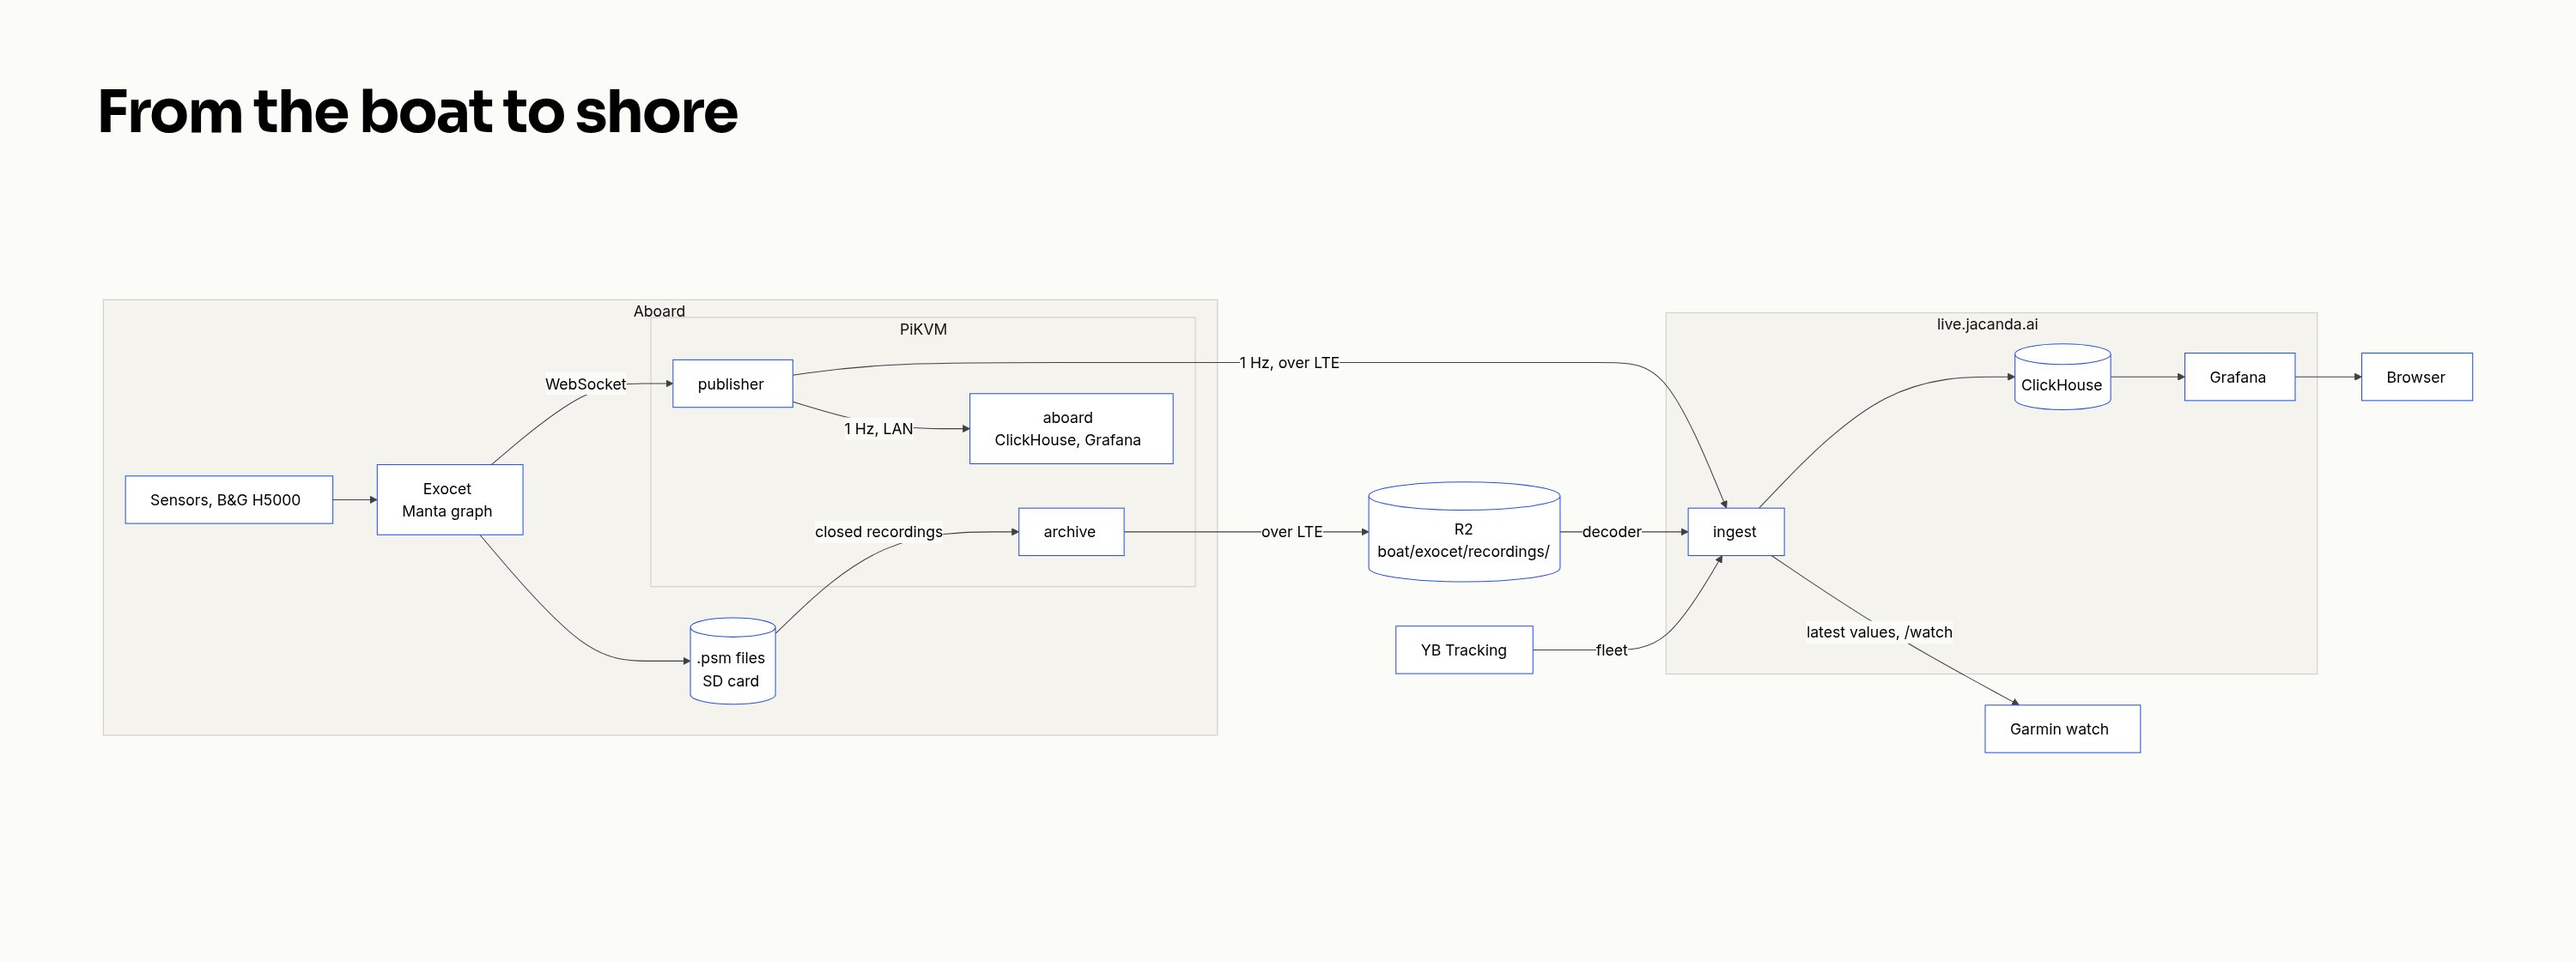
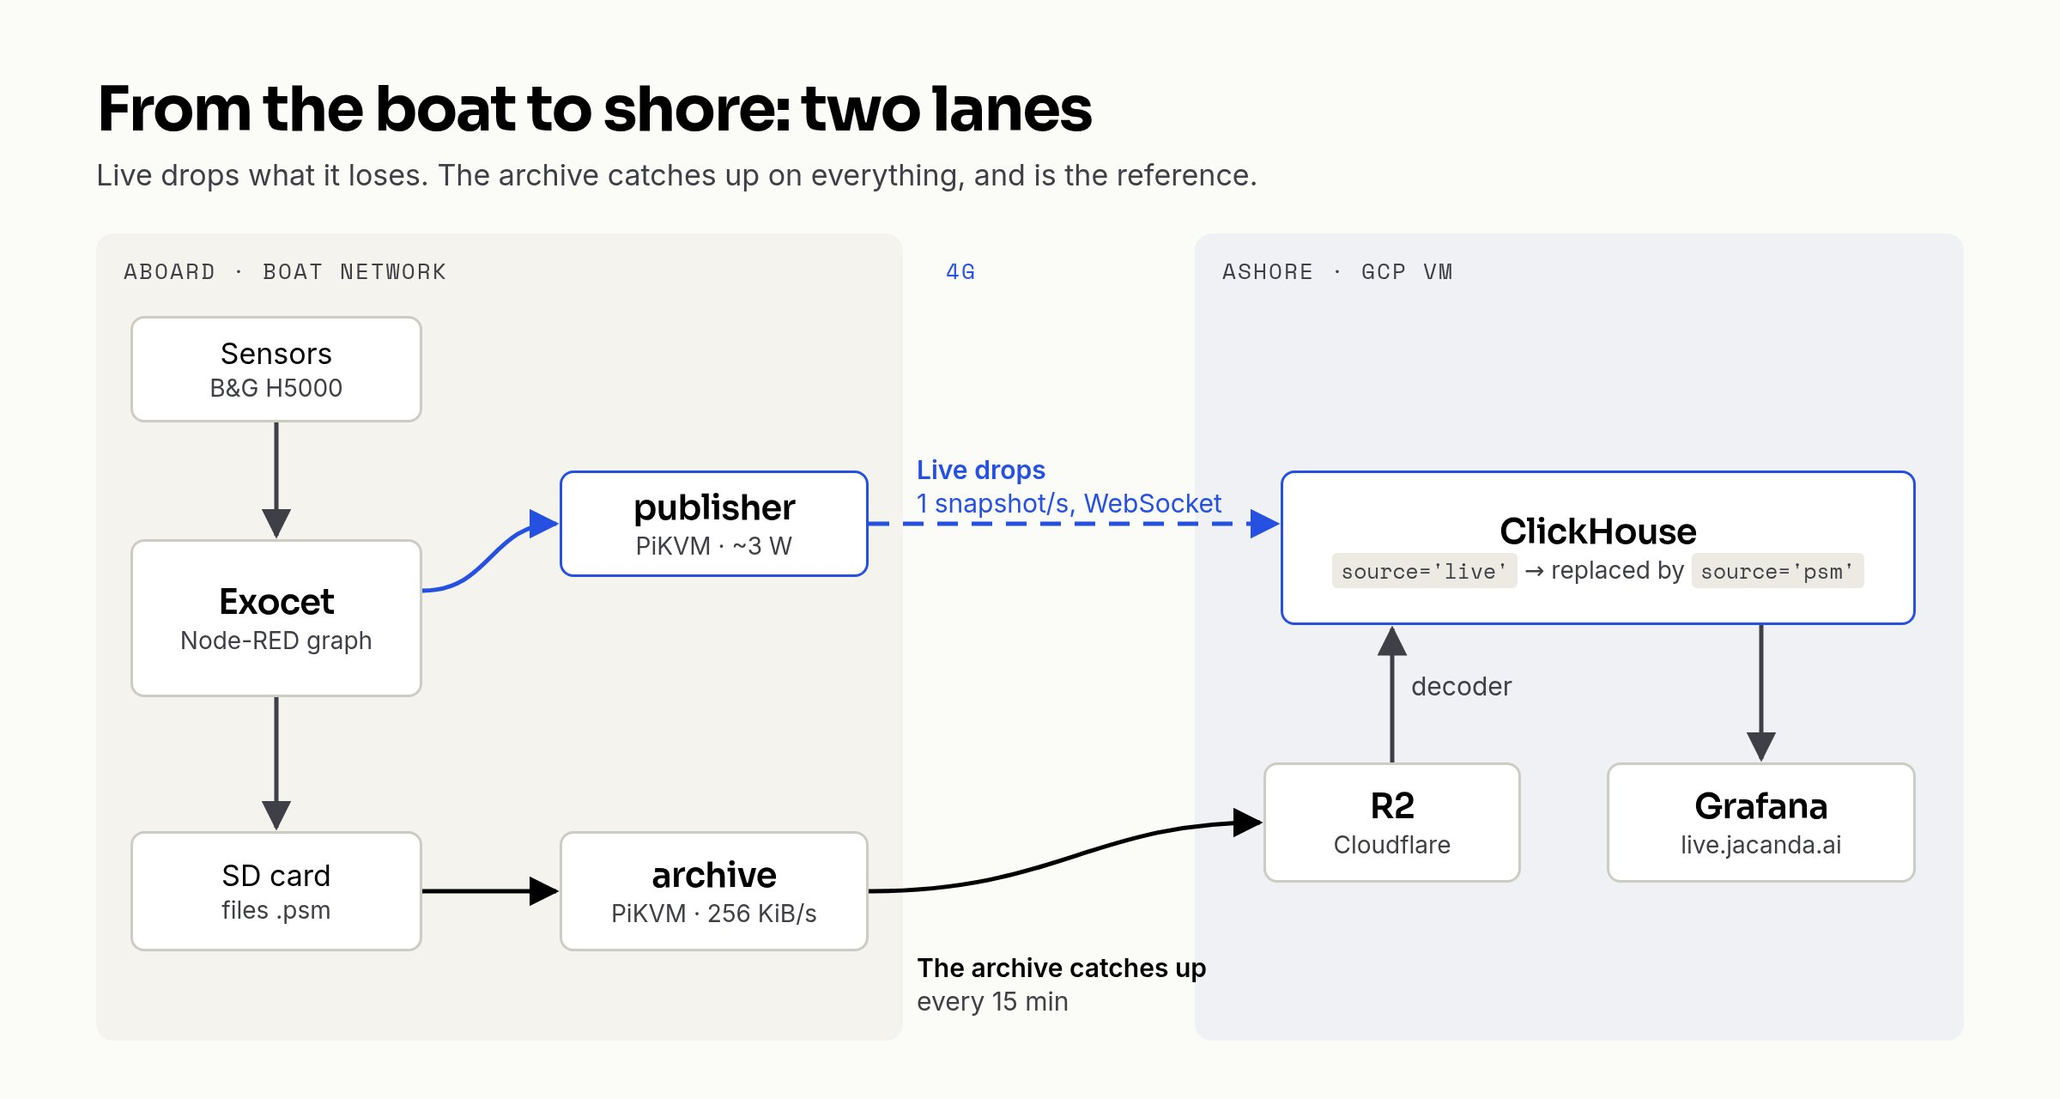
blog: real Grafana captures, watch screens and redrawn schemas for the sailboat draft

diff --git a/content/blog/un-agent-de-code-sur-un-voilier-de-course/fr.md b/content/blog/un-agent-de-code-sur-un-voilier-de-course/fr.md
@@ -26,13 +26,15 @@ GPS $RMC (onglet out_TimeSync    ──┘      (choisit la meilleure    (PC nav
 
 Le détail qui m'a fait sourire : la chaîne GPS → gpsd existait déjà dans le graphe de l'Exocet, entièrement câblée, dans un onglet désactivé. Il restait à l'activer et à configurer NTP. On est passés de +228,8 s à +4 ms.
 
-![Réglages d'heure de l'Exocet : port GPSD 8112 et serveur NTP](timesync.jpg "L'Exocet, onglet Synchronisation : gpsd sur le port 8112, et un serveur NTP.")
+![Réglages d'heure de l'Exocet : port GPSD 8112 et serveur NTP](timesync.png "L'Exocet, onglet Synchronisation : gpsd sur le port 8112, et le serveur NTP.")
 
 ## 2. Quand le lien tombe
 
 Sur un bateau, la coupure n'est pas un incident, c'est l'état normal. Au large, la 4G disparaît. Le réflexe serveur serait une file : on bufferise pendant la coupure, on rejoue au retour. Sauf qu'au retour, on rejouerait une heure de « direct » périmé.
 
 Alors j'ai séparé deux voies, et je ne les mélange jamais.
+
+![Schéma : à bord l'Exocet, le publisher et l'archive sur le PiKVM ; à terre R2, ClickHouse et Grafana](arch-fr.jpg "Deux voies : le direct en pointillés, l'archive en trait plein.")
 
 **Le direct jette.** Un publisher sur le PiKVM lit le flux de l'Exocet (via l'API que son app web utilise, pas documentée), en fait un snapshot complet par seconde et le pousse à terre en WebSocket. Si le lien tombe, la seconde est perdue, et c'est voulu :
 
@@ -59,11 +61,13 @@ Deux détails : on retente au plus toutes les 5 s (pas une poignée de main TLS 
 
 **Un seul store, jetable.** À terre, une VM GCP fait tourner [ClickHouse](https://clickhouse.com/) et Grafana. Les lignes du direct arrivent avec `source='live'` et sont provisoires : quand l'enregistrement complet est rechargé depuis R2 (`source='psm'`, pleine fréquence), il les remplace. Le store se reconstruit entièrement depuis R2, donc on peut le jeter.
 
-![Architecture : à bord l'Exocet et le PiKVM, à terre ClickHouse et Grafana, R2 entre les deux](arch-fr.jpg "Du bateau à la terre : le direct en 1 Hz, l'archive par R2. Schéma tiré du README du repo.")
+![Dashboard Grafana Live : vent, vitesse, cibles de polaire et courbes sur une heure](live.jpg "Le dashboard Live sur une heure de course, le 9 octobre, pendant le Tour de Corse.")
 
 Le bug le plus instructif est venu de là. Après un redémarrage de l'Exocet, le publisher n'a retrouvé que 8 canaux sur 28, et il a streamé comme ça pendant deux heures. Le tableau de bord avait l'air parfait : l'indicateur « Data age » au vert, à 0 s. Et le vent affichait 0,0, parce que l'agrégat `argMax` de ClickHouse sur une fenêtre vide renvoie 0 plutôt que rien. Un flux dégradé ressemble exactement à un flux sain. C'est toujours ouvert.
 
 L'inverse est arrivé aussi : le soir de la mise en service, la girouette s'est tue pendant un quart d'heure. Ma première réaction : « did we break something in the pixel? ». Non, c'était un vrai trou côté capteur, et c'est la voie directe qui venait de le montrer.
+
+![Dashboard Grafana Replay : trace autour de la Corse et vitesse comparée à la polaire](replay.jpg "Replay du Tour de Corse : la trace colorée par % de polaire, la vitesse contre la cible.")
 
 ## 3. L'énergie et le forfait
 
@@ -106,7 +110,7 @@ Le comportement de l'Exocet, c'est son graphe (21 flows, 743 nœuds), et il n'ex
 - le hash `rev` que renvoie Node-RED est sorti de git. C'est un état d'exécution, comme un state Terraform, pas de la configuration. En plus, l'Exocet renvoie `rev: null` pendant des heures après un déploiement : on compare le contenu, jamais le hash ;
 - l'export de configuration complet du fabricant est chiffré, et rechiffré à chaque export : impossible à comparer. Il part en sauvegarde sur R2, pas dans git.
 
-![Le bateau sous git : snapshot de l'Exocet en pull request, apply à quai, backup vers R2](git-fr.jpg "Snapshot toutes les 15 minutes en pull request, apply à la main et à quai.")
+![Schéma : snapshot de l'Exocet en pull request, merge sur main, apply à quai, backup vers R2](git-fr.jpg "Le graphe part de la boîte vers git tout seul ; il ne revient vers la boîte qu'à la main, à quai.")
 
 Pour le déploiement, l'agent proposait un bouton manuel. J'ai voulu que ça parte au merge. Le problème : un déploiement redémarre l'application de l'Exocet, donc le pilote. Inoffensif le long d'un ponton, dangereux en route, et la CI ne peut pas demander à un humain où est le bateau. Alors elle demande au bateau :
 
@@ -142,5 +146,7 @@ Ce qui change par rapport au dev web :
 - La bascule sur le GPS n'a jamais été observée au large. La cible de 10 ms n'est vérifiée que sur l'Exocet, seul appareil qui parle NTP : les autres sont seulement bornés à une ou deux secondes.
 - Le coût 4G du direct est une estimation (~1 Ko/s, quelques Mo par heure de course). Jamais mesuré sur une vraie journée de régate. La consommation électrique non plus.
 - Côté terre, la suppression des lignes du direct puis l'insertion de l'archive ne sont pas atomiques.
+
+![Trois écrans de l'app montre Garmin : TARGET, POLAR, TACTIC](watch.png "Depuis, les chiffres arrivent aussi au poignet de l'équipage. Capture du simulateur Garmin, valeurs fictives.")
 
 La prochaine régate dira si tout ça tient en mer 😅

diff --git a/content/blog/un-agent-de-code-sur-un-voilier-de-course/en.md b/content/blog/un-agent-de-code-sur-un-voilier-de-course/en.md
@@ -26,13 +26,15 @@ GPS $RMC (out_TimeSync tab       ──┘      (picks the best         (nav PC,
 
 The detail that made me smile: the GPS → gpsd chain already existed in the Exocet's graph, fully wired, in a disabled tab. All that was left was to enable it and configure NTP. We went from +228.8 s to +4 ms.
 
-![Exocet time settings: GPSD port 8112 and NTP server](timesync.jpg "The Exocet, Synchronization tab: gpsd on port 8112, and an NTP server.")
+![Exocet time settings: GPSD port 8112 and NTP server](timesync.png "The Exocet, Synchronization tab: gpsd on port 8112, and the NTP server.")
 
 ## 2. When the link drops
 
 On a boat, losing the link is not an incident, it is the normal state. Offshore, 4G disappears. The server reflex would be a queue: buffer during the outage, replay when it comes back. Except that on return, you would replay an hour of stale "live".
 
 So I split two lanes, and I never mix them.
+
+![Diagram: aboard the Exocet, the publisher and the archive on the PiKVM; ashore R2, ClickHouse and Grafana](arch-en.jpg "Two lanes: live dashed, the archive solid.")
 
 **Live drops.** A publisher on the PiKVM reads the Exocet's stream (through the API its web app uses, undocumented), turns it into one full snapshot per second and pushes it ashore over a WebSocket. If the link drops, that second is lost, on purpose:
 
@@ -59,11 +61,13 @@ Two details: it retries at most every 5 s (not one TLS handshake per snapshot ov
 
 **One store, disposable.** Ashore, a GCP VM runs [ClickHouse](https://clickhouse.com/) and Grafana. Live rows arrive with `source='live'` and are provisional: when the full recording is reloaded from R2 (`source='psm'`, full rate), it replaces them. The store rebuilds entirely from R2, so it can be thrown away.
 
-![Architecture: aboard the Exocet and the PiKVM, ashore ClickHouse and Grafana, R2 in between](arch-en.jpg "From the boat to shore: live at 1 Hz, the archive through R2. Diagram from the repo's README.")
+![Grafana Live dashboard: wind, speed, polar targets and one hour of curves](live.jpg "The Live dashboard over one hour of racing, on October 9, during the Tour de Corse.")
 
 The most instructive bug came from there. After an Exocet restart, the publisher resolved only 8 channels out of 28, and streamed like that for two hours. The dashboard looked perfect: the "Data age" indicator green, at 0 s. And the wind showed 0.0, because ClickHouse's `argMax` aggregate over an empty window returns 0 rather than nothing. A degraded stream looks exactly like a healthy one. It is still open.
 
 The reverse happened too: on the evening we went live, the wind vane went silent for a quarter of an hour. My first reaction: "did we break something in the pixel?". No, it was a real gap on the sensor side, and the live lane had just shown it.
+
+![Grafana Replay dashboard: track around Corsica and speed against the polar](replay.jpg "Replay of the Tour de Corse: the track colored by polar %, speed against target.")
 
 ## 3. Power and the data plan
 
@@ -106,7 +110,7 @@ The Exocet's behaviour is its graph (21 flows, 743 nodes), and it only existed i
 - the `rev` hash Node-RED returns is out of git. It is runtime state, like a Terraform state, not configuration. On top of that, the Exocet returns `rev: null` for hours after a deploy: we compare content, never the hash;
 - the manufacturer's full configuration export is encrypted, and re-encrypted on every export: impossible to diff. It goes to R2 as a backup, not into git.
 
-![The boat under git: Exocet snapshot as a pull request, apply at the dock, backup to R2](git-en.jpg "A snapshot every 15 minutes as a pull request, applied by hand, at the dock.")
+![Diagram: Exocet snapshot as a pull request, merge to main, apply at the dock, backup to R2](git-en.jpg "The graph goes from the box to git on its own; it only goes back to the box by hand, at the dock.")
 
 For deployment, the agent suggested a manual button. I wanted it to go out on merge. The problem: a deploy restarts the Exocet application, and with it the autopilot. Harmless alongside a pontoon, dangerous under way, and CI cannot ask a human where the boat is. So it asks the boat:
 
@@ -142,5 +146,7 @@ What changes compared with web development:
 - The failover to GPS has never been observed offshore. The 10 ms target is only verified on the Exocet, the only device that speaks NTP: the others are only bounded to a second or two.
 - The 4G cost of live is an estimate (~1 KB/s, a few MB per race hour). Never measured on a real regatta day. Power consumption neither.
 - Ashore, deleting the live rows then inserting the archive is not atomic.
+
+![Three screens of the Garmin watch app: TARGET, POLAR, TACTIC](watch.png "Since then, the numbers also reach the crew's wrists. Garmin simulator capture, made-up values.")
 
 The next regatta will tell whether all this holds at sea 😅
